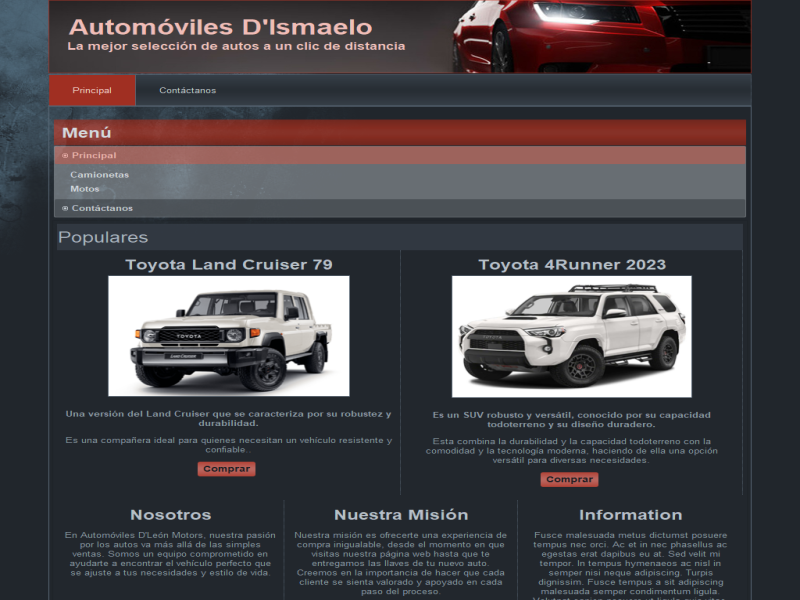
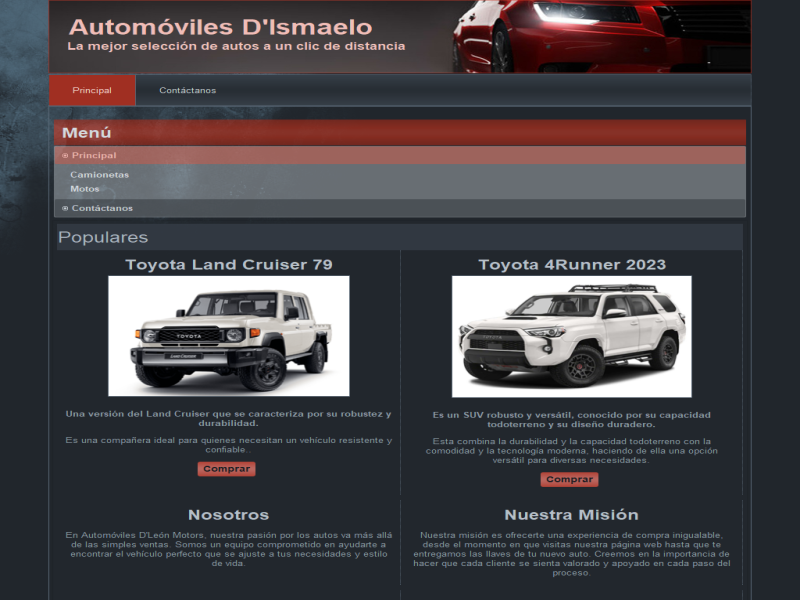
Add files via upload

Changed region(s): [[0.0938, 0.84, 0.9062, 1.0]]

diff --git a/principal.html b/principal.html
@@ -1,7 +1,7 @@
 <!DOCTYPE html>
 <html dir="ltr" lang="en-US"><head><!-- Created by Artisteer v4.3.0.60858 -->
     <meta charset="utf-8">
-    <title>Populares</title>
+    <title>Principal</title>
     <meta name="viewport" content="initial-scale = 1.0, maximum-scale = 1.0, user-scalable = no, width = device-width">
 
     <!--[if lt IE 9]><script src="https://html5shiv.googlecode.com/svn/trunk/html5.js"></script><![endif]-->
@@ -17,7 +17,6 @@
 
 <style>.art-content .art-postcontent-0 .layout-item-0 { margin-bottom: 10px;  }
 .art-content .art-postcontent-0 .layout-item-1 { border-right-style:dotted;border-right-width:1px;border-right-color:#586674; padding-right: 10px;padding-left: 10px;  }
-.art-content .art-postcontent-0 .layout-item-2 { padding-right: 10px;padding-left: 10px;  }
 .ie7 .art-post .art-layout-cell {border:none !important; padding:0 !important; }
 .ie6 .art-post .art-layout-cell {border:none !important; padding:0 !important; }
 
@@ -66,7 +65,7 @@
 <div class="art-content-layout">
     <div class="art-content-layout-row">
     <div class="art-layout-cell layout-item-1" style="width: 50%" >
-        <h3>Toyota Land Cruiser 79</h3><div class="image-caption-wrapper" style="padding-top: 5px; padding-right: 5px; padding-bottom: 5px; padding-left: 5px;"><a href="principal/autos/toyota-land-cruiser-79.html"><img width="310" height="207" style="margin-top: 5px; margin-right: 5px; margin-bottom: 5px; margin-left: 5px; border-top-style: solid; border-right-style: solid; border-bottom-style: solid; border-left-style: solid; border-top-color: rgb(88, 102, 116); border-right-color: rgb(88, 102, 116); border-bottom-color: rgb(88, 102, 116); border-left-color: rgb(88, 102, 116); border-top-width: 1px; border-right-width: 1px; border-bottom-width: 1px; border-left-width: 1px;" alt="" src="images/1d7ecab6-3f82-49c5-bcd4-6ec185e76466.png"></a>
+        <h3>Toyota Land Cruiser 79</h3><div class="image-caption-wrapper" style="padding-top: 5px; padding-right: 5px; padding-bottom: 5px; padding-left: 5px;"><a href="principal/autos/toyota-land-cruiser-79.html"><img width="310" height="207" style="margin-top: 5px; margin-right: 5px; margin-bottom: 5px; margin-left: 5px; border-top-style: solid; border-right-style: solid; border-bottom-style: solid; border-left-style: solid; border-top-color: rgb(88, 102, 116); border-right-color: rgb(88, 102, 116); border-bottom-color: rgb(88, 102, 116); border-left-color: rgb(88, 102, 116); border-top-width: 1px; border-right-width: 1px; border-bottom-width: 1px; border-left-width: 1px;" alt="" src="images/1d7ecab6-3f82-49c5-bcd4-6ec185e76466.png" class=""></a>
          
         </div><p><span style="font-weight: bold;">Una versión del Land Cruiser que se caracteriza por su robustez y durabilidad.</span><span style="font-weight: bold;"></span></p><p>Es una compañera ideal para quienes necesitan un vehículo resistente y confiable..</p><p><a href="principal/autos/toyota-land-cruiser-79.html" class="art-button">Comprar</a></p>
     </div><div class="art-layout-cell layout-item-1" style="width: 50%" >
@@ -79,12 +78,10 @@
 <div class="art-content-layout-wrapper layout-item-0">
 <div class="art-content-layout">
     <div class="art-content-layout-row">
-    <div class="art-layout-cell layout-item-1" style="width: 33%" >
-        <h3>Nosotros</h3><p><span style="font-size: 13px; font-weight: normal;">En Automóviles D'León Motors, nuestra pasión por los autos va más allá de las simples ventas. Somos un equipo comprometido en ayudarte a encontrar el vehículo perfecto que se ajuste a tus necesidades y estilo de vida.</span></p>
-    </div><div class="art-layout-cell layout-item-1" style="width: 34%" >
+    <div class="art-layout-cell layout-item-1" style="width: 50%" >
+        <h3>Nosotros</h3><p><span style="font-size: 13px; font-weight: normal;">En Automóviles D'Ismaelo Motors, nuestra pasión por los autos va más allá de las simples ventas. Somos un equipo comprometido en ayudarte a encontrar el vehículo perfecto que se ajuste a tus necesidades y estilo de vida.</span></p>
+    </div><div class="art-layout-cell layout-item-1" style="width: 50%" >
         <h3>Nuestra Misión</h3><p>Nuestra misión es ofrecerte una experiencia de compra inigualable, desde el momento en que visitas nuestra página web hasta que te entregamos las llaves de tu nuevo auto. Creemos en la importancia de hacer que cada cliente se sienta valorado y apoyado en cada paso del proceso.</p>
-    </div><div class="art-layout-cell layout-item-2" style="width: 33%" >
-        <h3>Information</h3><p>Fusce malesuada metus dictumst posuere tempus nec orci. Ac et in nec phasellus ac egestas erat dapibus eu at. Sed velit mi tempor. In tempus hymenaeos ac nisl in semper nisi neque adipiscing. Turpis dignissim. Fusce tempus a sit adipiscing malesuada semper condimentum ligula. Volutpat sapien posuere ut ligula quis vitae. Rhoncus ultrices cras in tristique mauris sit ac. Nisl a orci magna vestibulum ultrices hendrerit eu.</p>
     </div>
     </div>
 </div>
@@ -92,19 +89,44 @@
 <div class="art-content-layout-wrapper layout-item-0">
 <div class="art-content-layout">
     <div class="art-content-layout-row">
-    <div class="art-layout-cell layout-item-1" style="width: 33%" >
-        <h3>Join Us</h3><div class="image-caption-wrapper" style="width: 100%"><img src="images/18429.jpg" style="width: 100%; max-width: 451px;" alt="an image" class="art-lightbox"><p>Image by Flickr/Mike Baird</p></div><p><a href="#">Read more</a></p>
-    </div><div class="art-layout-cell layout-item-1" style="width: 34%" >
-        <h3>About</h3><div class="image-caption-wrapper" style="width: 100%"><img src="images/1a9fc.jpg" style="width: 100%; max-width:463px" alt="an image" class="art-lightbox"><p>Image by Flickr/Joseph Williams</p></div><p><a href="#">Read more</a></p>
-    </div><div class="art-layout-cell layout-item-2" style="width: 33%" >
-        <h3>Features</h3><ul>
-        <li><span style="font-weight: bold;">Erat venenatis urna.</span><br>Sit metus inceptos magna nec proin. Amet lacus a elit arcu.</li>
-        <li><span style="font-weight: bold;">Sodales orci pede.</span><br>Nisi et amet lacus et vestibulum ut. Vestibulum non turpis.</li>
-        <li><span style="font-weight: bold;">Fusce urna nisl sed.</span><br>Hac ac vestibulum nam orci mauris. Curabitur pellentesque.</li>
-        <li><span style="font-weight: bold;">Turpis iaculis leo.</span><br>Mi hendrerit curae gravida habitant. Id eros ac tincidunt.</li>
-        </ul><p><a href="#" class="art-button">Read more</a></p>
+    <div class="art-layout-cell layout-item-1" style="width: 50%" >
+        <h3>Siguenos:</h3>
+
+        <!DOCTYPE html>
+<html lang="es">
+<head>
+    <meta charset="UTF-8">
+    <title>Enlaces Subrayados con Iconos</title>
+    <link rel="stylesheet" href="https://cdnjs.cloudflare.com/ajax/libs/font-awesome/6.0.0-beta3/css/all.min.css">
+    <style>
+        .underline-link {
+            text-decoration: underline;
+            color: rgb(255, 51, 0);
+        }
+        .social-icon {
+            margin-right: 5px;
+        }
+    </style>
+</head>
+<body>
+    <p>También puedes seguirnos en 
+        <a href="https://www.facebook.com" class="underline-link">
+            <i class="fab fa-facebook-f social-icon"></i> Facebook
+        </a>, 
+        <a href="https://www.instagram.com" class="underline-link">
+            <i class="fab fa-instagram social-icon"></i> Instagram
+        </a> 
+        y 
+        <a href="https://www.twitter.com" class="underline-link">
+            <i class="fab fa-twitter social-icon"></i> Twitter
+        </a>
+    </p>
+</body>
+</html>
+        
+    </div><div class="art-layout-cell layout-item-1" style="width: 50%" >
     </div>
-    </div>
+    </div> 
 </div>
 </div>
 </div>
@@ -114,7 +136,7 @@
                     </div>
                 </div>
             </div><footer class="art-footer">
-<p>Copyright © 2025. All Rights Reserved.<br></p>
+<p>Copyright © 2025. Todos Los Derechos Reservados a Ismaelo.<br></p>
 </footer>
 
     </div>

diff --git a/index.html b/index.html
@@ -17,7 +17,6 @@
 
 <style>.art-content .art-postcontent-0 .layout-item-0 { margin-bottom: 10px;  }
 .art-content .art-postcontent-0 .layout-item-1 { border-right-style:dotted;border-right-width:1px;border-right-color:#586674; padding-right: 10px;padding-left: 10px;  }
-.art-content .art-postcontent-0 .layout-item-2 { padding-right: 10px;padding-left: 10px;  }
 .ie7 .art-post .art-layout-cell {border:none !important; padding:0 !important; }
 .ie6 .art-post .art-layout-cell {border:none !important; padding:0 !important; }
 
@@ -66,7 +65,7 @@
 <div class="art-content-layout">
     <div class="art-content-layout-row">
     <div class="art-layout-cell layout-item-1" style="width: 50%" >
-        <h3>Toyota Land Cruiser 79</h3><div class="image-caption-wrapper" style="padding-top: 5px; padding-right: 5px; padding-bottom: 5px; padding-left: 5px;"><a href="principal/autos/toyota-land-cruiser-79.html"><img width="310" height="207" style="margin-top: 5px; margin-right: 5px; margin-bottom: 5px; margin-left: 5px; border-top-style: solid; border-right-style: solid; border-bottom-style: solid; border-left-style: solid; border-top-color: rgb(88, 102, 116); border-right-color: rgb(88, 102, 116); border-bottom-color: rgb(88, 102, 116); border-left-color: rgb(88, 102, 116); border-top-width: 1px; border-right-width: 1px; border-bottom-width: 1px; border-left-width: 1px;" alt="" src="images/1d7ecab6-3f82-49c5-bcd4-6ec185e76466.png"></a>
+        <h3>Toyota Land Cruiser 79</h3><div class="image-caption-wrapper" style="padding-top: 5px; padding-right: 5px; padding-bottom: 5px; padding-left: 5px;"><a href="principal/autos/toyota-land-cruiser-79.html"><img width="310" height="207" style="margin-top: 5px; margin-right: 5px; margin-bottom: 5px; margin-left: 5px; border-top-style: solid; border-right-style: solid; border-bottom-style: solid; border-left-style: solid; border-top-color: rgb(88, 102, 116); border-right-color: rgb(88, 102, 116); border-bottom-color: rgb(88, 102, 116); border-left-color: rgb(88, 102, 116); border-top-width: 1px; border-right-width: 1px; border-bottom-width: 1px; border-left-width: 1px;" alt="" src="images/1d7ecab6-3f82-49c5-bcd4-6ec185e76466.png" class=""></a>
          
         </div><p><span style="font-weight: bold;">Una versión del Land Cruiser que se caracteriza por su robustez y durabilidad.</span><span style="font-weight: bold;"></span></p><p>Es una compañera ideal para quienes necesitan un vehículo resistente y confiable..</p><p><a href="principal/autos/toyota-land-cruiser-79.html" class="art-button">Comprar</a></p>
     </div><div class="art-layout-cell layout-item-1" style="width: 50%" >
@@ -79,12 +78,10 @@
 <div class="art-content-layout-wrapper layout-item-0">
 <div class="art-content-layout">
     <div class="art-content-layout-row">
-    <div class="art-layout-cell layout-item-1" style="width: 33%" >
+    <div class="art-layout-cell layout-item-1" style="width: 50%" >
         <h3>Nosotros</h3><p><span style="font-size: 13px; font-weight: normal;">En Automóviles D'León Motors, nuestra pasión por los autos va más allá de las simples ventas. Somos un equipo comprometido en ayudarte a encontrar el vehículo perfecto que se ajuste a tus necesidades y estilo de vida.</span></p>
-    </div><div class="art-layout-cell layout-item-1" style="width: 34%" >
+    </div><div class="art-layout-cell layout-item-1" style="width: 50%" >
         <h3>Nuestra Misión</h3><p>Nuestra misión es ofrecerte una experiencia de compra inigualable, desde el momento en que visitas nuestra página web hasta que te entregamos las llaves de tu nuevo auto. Creemos en la importancia de hacer que cada cliente se sienta valorado y apoyado en cada paso del proceso.</p>
-    </div><div class="art-layout-cell layout-item-2" style="width: 33%" >
-        <h3>Information</h3><p>Fusce malesuada metus dictumst posuere tempus nec orci. Ac et in nec phasellus ac egestas erat dapibus eu at. Sed velit mi tempor. In tempus hymenaeos ac nisl in semper nisi neque adipiscing. Turpis dignissim. Fusce tempus a sit adipiscing malesuada semper condimentum ligula. Volutpat sapien posuere ut ligula quis vitae. Rhoncus ultrices cras in tristique mauris sit ac. Nisl a orci magna vestibulum ultrices hendrerit eu.</p>
     </div>
     </div>
 </div>
@@ -92,17 +89,12 @@
 <div class="art-content-layout-wrapper layout-item-0">
 <div class="art-content-layout">
     <div class="art-content-layout-row">
-    <div class="art-layout-cell layout-item-1" style="width: 33%" >
-        <h3>Join Us</h3><div class="image-caption-wrapper" style="width: 100%"><img src="images/18429.jpg" style="width: 100%; max-width: 451px;" alt="an image" class="art-lightbox"><p>Image by Flickr/Mike Baird</p></div><p><a href="#">Read more</a></p>
-    </div><div class="art-layout-cell layout-item-1" style="width: 34%" >
-        <h3>About</h3><div class="image-caption-wrapper" style="width: 100%"><img src="images/1a9fc.jpg" style="width: 100%; max-width:463px" alt="an image" class="art-lightbox"><p>Image by Flickr/Joseph Williams</p></div><p><a href="#">Read more</a></p>
-    </div><div class="art-layout-cell layout-item-2" style="width: 33%" >
-        <h3>Features</h3><ul>
-        <li><span style="font-weight: bold;">Erat venenatis urna.</span><br>Sit metus inceptos magna nec proin. Amet lacus a elit arcu.</li>
-        <li><span style="font-weight: bold;">Sodales orci pede.</span><br>Nisi et amet lacus et vestibulum ut. Vestibulum non turpis.</li>
-        <li><span style="font-weight: bold;">Fusce urna nisl sed.</span><br>Hac ac vestibulum nam orci mauris. Curabitur pellentesque.</li>
-        <li><span style="font-weight: bold;">Turpis iaculis leo.</span><br>Mi hendrerit curae gravida habitant. Id eros ac tincidunt.</li>
-        </ul><p><a href="#" class="art-button">Read more</a></p>
+    <div class="art-layout-cell layout-item-1" style="width: 50%" >
+        <h3>Siguenos:</h3><p>&nbsp;<a href="" class="art-facebook-tag-icon" style="line-height: 32px;"></a>&nbsp;<br></p><p><br></p>
+        <h3></h3><p>Puedes Seguirnos es Facebook, Instagram y X antes Twitter</p>
+        <h3></h3><p>dsffsdfsdf</p>
+    </div><div class="art-layout-cell layout-item-1" style="width: 50%" >
+        
     </div>
     </div>
 </div>

diff --git a/principal/new-page-3.html b/principal/new-page-3.html
@@ -64,10 +64,10 @@
                                 <div class="art-postcontent art-postcontent-0 clearfix"><div class="art-content-layout">
     <div class="art-content-layout-row">
     <div class="art-layout-cell layout-item-0" style="width: 33%" >
-        <div class="image-caption-wrapper" style="padding-top: 5px; padding-right: 5px; padding-bottom: 5px; padding-left: 5px;"><a href="../principal/new-page-3/yamaha.html"><img width="259" height="259" style="margin-top: 5px; margin-right: 5px; margin-bottom: 5px; margin-left: 5px; " alt="" src="../images/b7bd2d16-4a47-4682-8bf0-3c12a5cbd7bc.png" class=""></a>
+        <div class="image-caption-wrapper" style="padding-top: 5px; padding-right: 5px; padding-bottom: 5px; padding-left: 5px;"><a href="../principal/new-page-3/yamaha.html"><img width="259" height="259" style="margin-top: 5px; margin-right: 5px; margin-bottom: 5px; margin-left: 5px;" alt="" src="../images/b7bd2d16-4a47-4682-8bf0-3c12a5cbd7bc.png" class=""></a>
         </div><h3 style="border-bottom-width: 1px; border-bottom-style: solid; border-bottom-color: rgb(88, 102, 116); padding-bottom: 5px; text-align: center;">Yamaha XTZ 125</h3><p><span style="font-weight: bold;">Es una motocicleta diseñada para ofrecer un equilibrio perfecto entre rendimiento y economía.</span></p><p style="text-align: center;"><span style="text-align: center;">&nbsp;<a href="../principal/new-page-3/yamaha.html" class="art-button">Conoce Más</a></span><br></p>
     </div><div class="art-layout-cell layout-item-0" style="width: 34%" >
-        <div class="image-caption-wrapper"><p><a href="../principal/new-page-3/suzuki.html"><img src="../images/moto-suzuki-gn125-2-f7f8d64755557752f517249436473433-640-0.jpg" alt="an image" width="268" height="268"></a><br></p></div><h3 style="border-bottom-width: 1px; border-bottom-style: solid; border-bottom-color: rgb(88, 102, 116); padding-bottom: 5px; text-align: center;">Suzuki GN 125</h3><p><span style="font-weight: bold;">Es una motocicleta clásica y confiable, diseñada para ofrecer un rendimiento eficiente y una conducción cómoda.</span></p><p style="text-align: center;"><span style="text-align: center;">&nbsp;<a href="../principal/new-page-3/suzuki.html" class="art-button">Conoce Más</a>&nbsp;</span><br></p>
+        <div class="image-caption-wrapper"><p><a href="../principal/new-page-3/suzuki.html"><img src="../images/moto-suzuki-gn125-2-f7f8d64755557752f517249436473433-640-0.jpg" alt="an image" width="267" height="267" class=""></a><br></p></div><h3 style="border-bottom-width: 1px; border-bottom-style: solid; border-bottom-color: rgb(88, 102, 116); padding-bottom: 5px; text-align: center;">Suzuki GN 125</h3><p><span style="font-weight: bold;">Es una motocicleta clásica y confiable, diseñada para ofrecer un rendimiento eficiente y una conducción cómoda.</span></p><p style="text-align: center;"><span style="text-align: center;">&nbsp;<a href="../principal/new-page-3/suzuki.html" class="art-button">Conoce Más</a>&nbsp;</span><br></p>
     </div><div class="art-layout-cell layout-item-1" style="width: 33%" >
         <div class="image-caption-wrapper"><p><a href="../principal/new-page-3/empire-keeway.html"><img src="../images/Empire%20Keeway%20_%20Motocicleta%20_%20Horse%20Rayas%20Locas%20_%20149%20cc.png" alt="an image" width="256" height="256" class=""></a><br></p></div><h3 style="border-bottom-width: 1px; border-bottom-style: solid; border-bottom-color: rgb(88, 102, 116); padding-bottom: 5px; text-align: center;">Empire Keeway Horse</h3><p><span style="font-weight: bold;">Es una motocicleta diseñada para ofrecer un rendimiento eficiente y una conducción cómoda.</span></p><p style="text-align: center;">&nbsp;<a href="../principal/new-page-3/empire-keeway.html" class="art-button">Conoce Más</a>&nbsp;<br></p>
     </div>

diff --git a/compra-exitosa.html b/compra-exitosa.html
@@ -55,9 +55,9 @@
                                 <div class="art-postmetadataheader">
                                         <h2 class="art-postheader">Consesionarios</h2>
                                                             
-                                    </div>
-                                <div class="art-postcontent art-postcontent-0 clearfix"><h1><span style="font-size: 36px;">Consesionarios</span></h1></div>
-
+                                 </div>
+                                 <div class="art-postcontent art-postcontent-0 clearfix"><h1><span style="font-size: 36px;">Consesionarios</span></h1></div>                               
+                                 <div class="art-postcontent art-postcontent-0 clearfix"><h2><span style="color: rgb(182, 191, 200); font-size: 14px; line-height: 28px;">Los más cercanos a ti</h3><ul><li><p><strong>Dirección 1</strong>: Calle Principal No. 123, Caracas, Miranda, Venezuela</p></li><li><p><strong>Direccion 2</strong>: Calle Libertador No. 789, Maracaibo, Zulia, Venezuela</p></li><li><p><strong>Direccion 3</strong>: Carrera Sucre No. 654, Puerto La Cruz, Anzoátegui, Venezuela</p></li><li><p><strong>Horario de Atención</strong>: De Lunes a Viernes desde las 8:00 AM - 6:00 PM</p></li></ul><h1>&nbsp;<span style="font-weight: bold; font-size: 14px; color: #D3D9DE;">¿Prefieres enviarnos un mensaje directamente desde nuestro sitio web? Haz Click En</span>&nbsp;<a href="contactanos/formulario-de-contacto.html" class="art-button">Crear Formulario de Contacto</a>&nbsp;<br></h1></div>
 
 </article></div>
                     </div>
@@ -67,7 +67,7 @@
 </footer>
 
     </div>
-    <p class="art-page-footer">
+    <p class="art-page-footer">1
         <span id="art-footnote-links"><a href="http://www.artisteer.com/" target="_blank">Web Template</a> created with Artisteer.</span>
     </p>
 </div>
